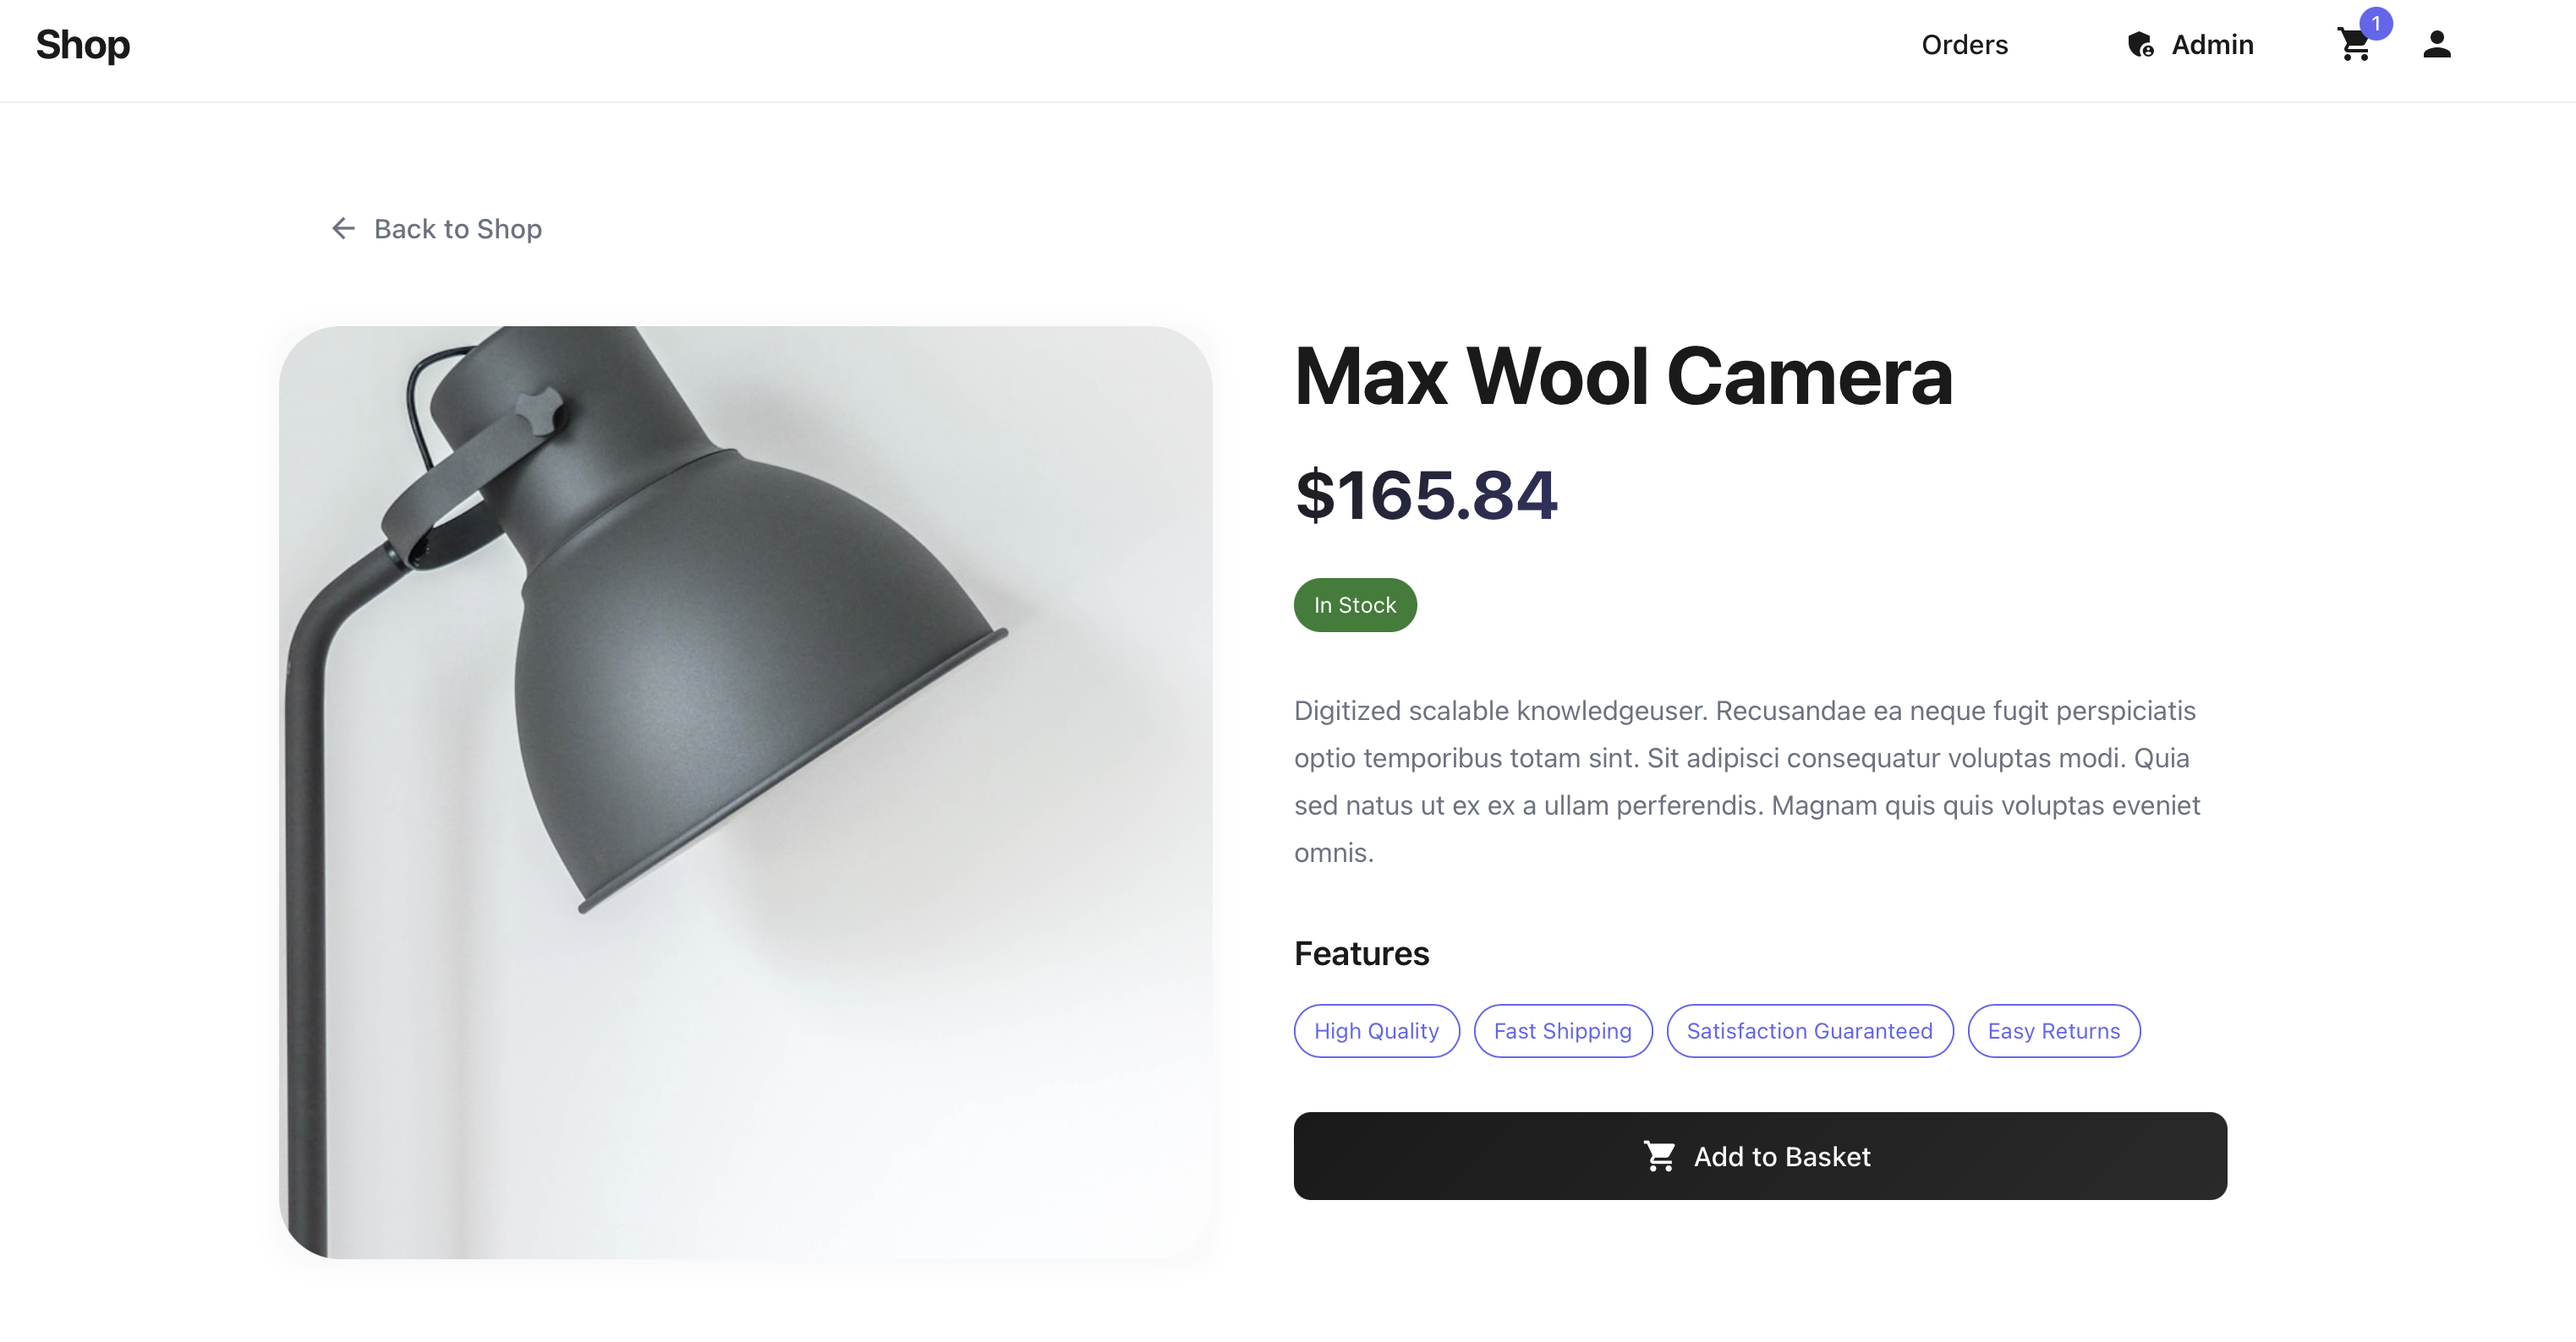
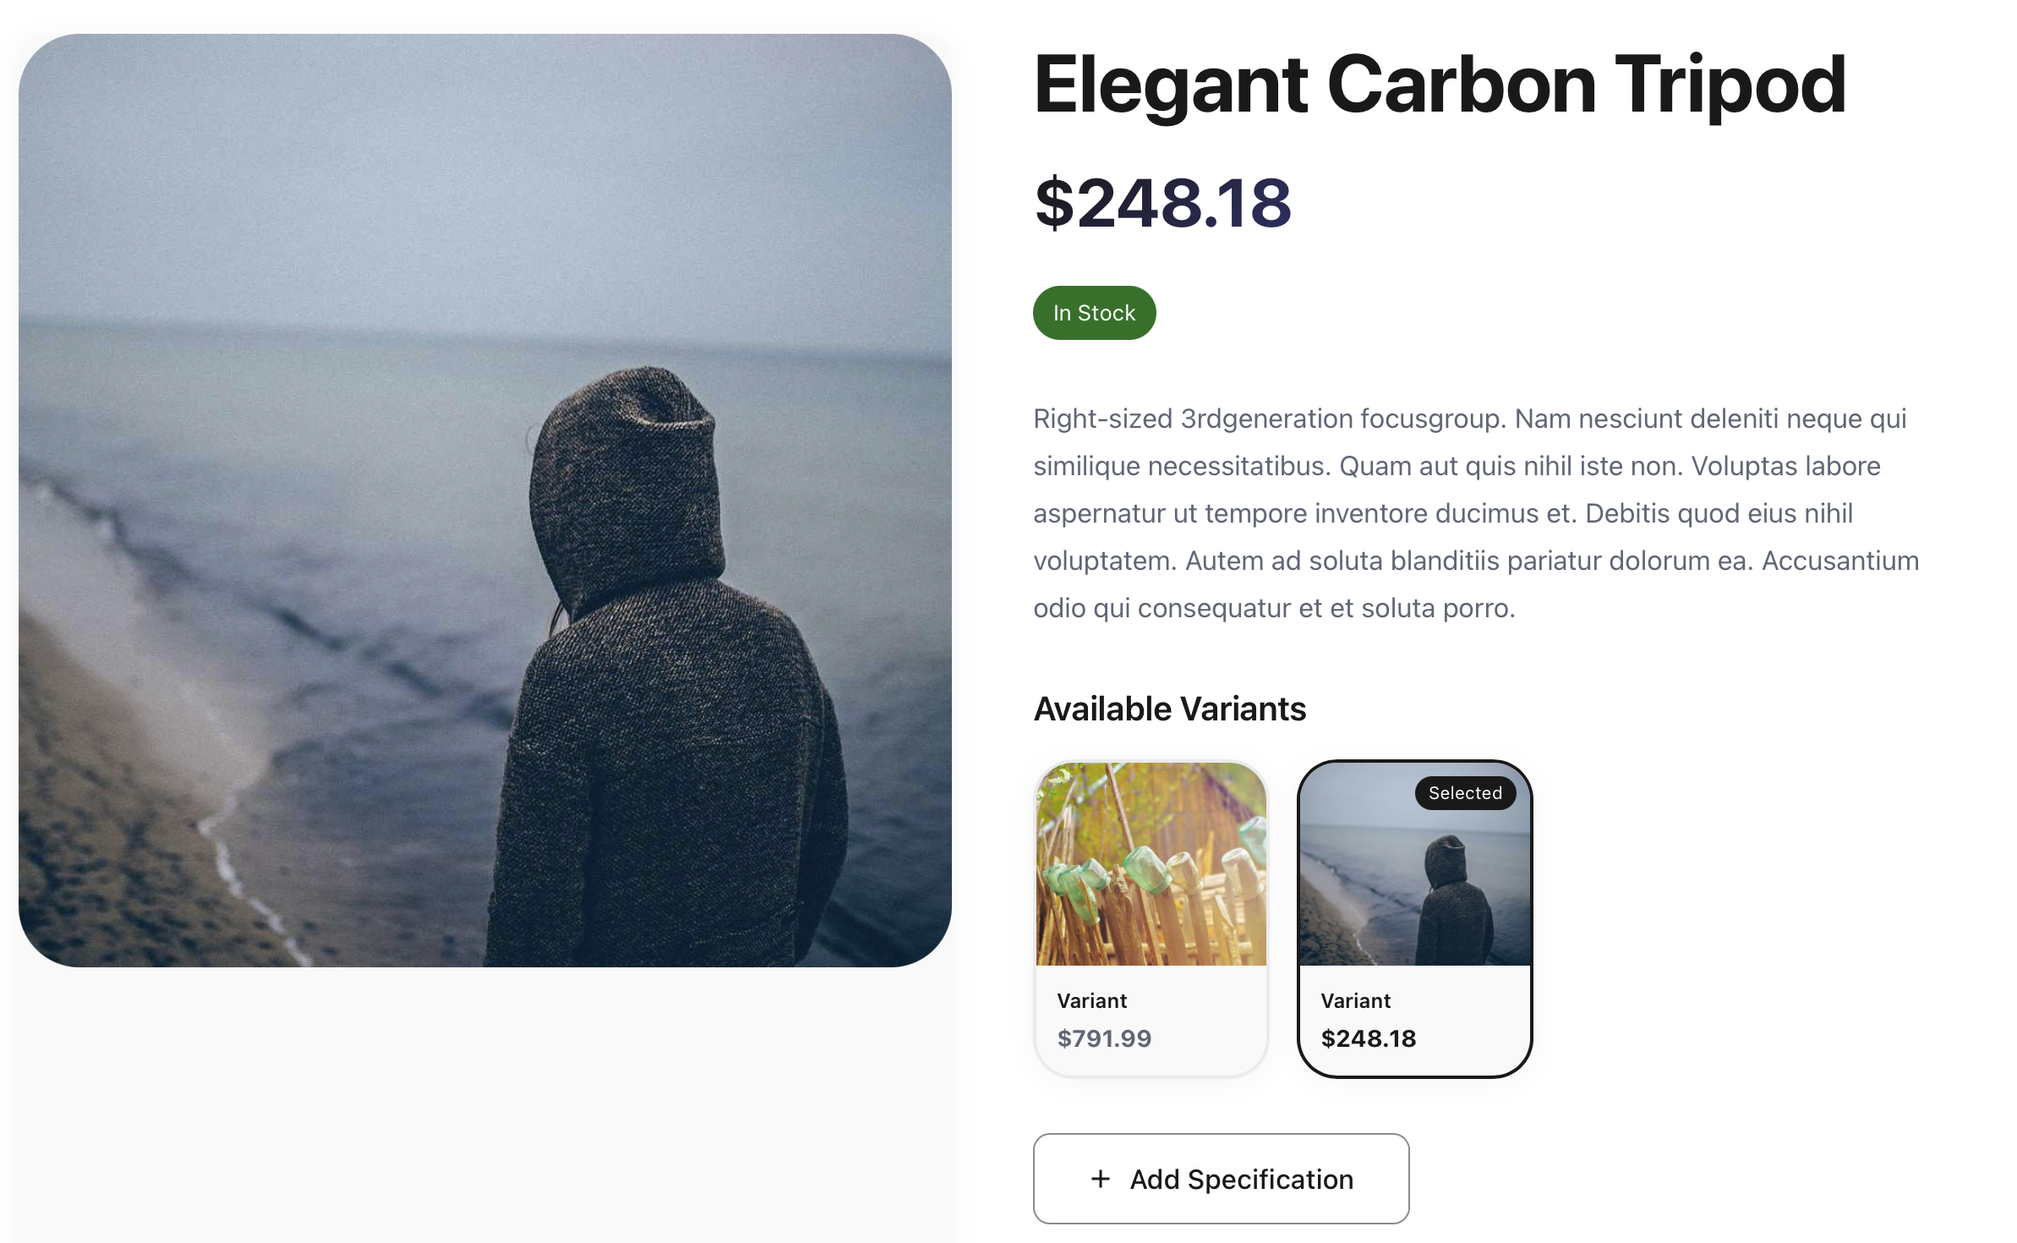
Variants on product page cooler selection

diff --git a/web/src/pages/ProductPage.tsx b/web/src/pages/ProductPage.tsx
@@ -55,7 +55,7 @@ export default function ProductPage() {
     const [variants, setVariants] = useState<ProductVariant[]>([]);
 
     const { data: meRaw } = useGetMe(undefined, { enabled: true });
-    const me = meRaw as ApiResponse<MePayload> | undefined;
+    const me = meRaw as unknown as ApiResponse<MePayload> | undefined;
     const user: User | undefined =
         me?.data && typeof me.data === 'object' && 'user' in me.data
             ? (me.data as { user?: User }).user
@@ -235,7 +235,7 @@ export default function ProductPage() {
                                 {product.description || 'No description available'}
                             </Typography>
 
-                            {variants.length > 0 && (
+                            {variants.length > 1 && (
                                 <Box sx={{ mb: 4 }}>
                                     <Typography variant="h6" sx={{ mb: 2, fontWeight: 600 }}>
                                         Available Variants
@@ -246,50 +246,78 @@ export default function ProductPage() {
                                                 key={variant.id}
                                                 elevation={0}
                                                 sx={{
-                                                    cursor: 'pointer',
+                                                    cursor: variant.is_current ? 'default' : 'pointer',
                                                     border: '2px solid',
-                                                    borderColor: 'grey.200',
+                                                    borderColor: variant.is_current ? 'primary.main' : 'grey.200',
                                                     borderRadius: 2,
                                                     transition: 'all 0.2s ease',
-                                                    '&:hover': { borderColor: 'primary.main', transform: 'translateY(-2px)', boxShadow: 2 },
+                                                    ...(!variant.is_current && {
+                                                        '&:hover': { borderColor: 'primary.main', transform: 'translateY(-2px)', boxShadow: 2 }
+                                                    }),
                                                     width: 140,
+                                                    position: 'relative',
+                                                    bgcolor: variant.is_current ? 'primary.50' : 'background.paper',
                                                 }}
-                                                onClick={() => navigate(`/product/${variant.id}`)}
+                                                onClick={() => !variant.is_current && navigate(`/product/${variant.id}`)}
                                             >
-                                                {variant.image && (
-                                                    <CardMedia
-                                                        component="img"
-                                                        image={getImageUrl(variant.image) || ''}
-                                                        alt={variant.title}
-                                                        sx={{ height: 120, objectFit: 'cover' }}
-                                                    />
+                                            {variant.is_current && (
+                                                <Chip 
+                                                    label="Selected" 
+                                                    size="small" 
+                                                    color="primary"
+                                                    sx={{ 
+                                                        position: 'absolute', 
+                                                        top: 8, 
+                                                        right: 8, 
+                                                        zIndex: 1,
+                                                        height: 20,
+                                                        fontSize: '0.65rem',
+                                                    }} 
+                                                />
+                                            )}
+                                            {variant.image && (
+                                                <CardMedia
+                                                    component="img"
+                                                    image={getImageUrl(variant.image) || ''}
+                                                    alt={variant.title}
+                                                    sx={{ 
+                                                        height: 120, 
+                                                        objectFit: 'cover',
+                                                        opacity: variant.is_current ? 1 : 0.9,
+                                                    }}
+                                                />
+                                            )}
+                                            <Box sx={{ p: 1.5 }}>
+                                                <Typography
+                                                    variant="body2"
+                                                    sx={{
+                                                        fontWeight: 600,
+                                                        fontSize: '0.75rem',
+                                                        mb: 0.5,
+                                                        overflow: 'hidden',
+                                                        textOverflow: 'ellipsis',
+                                                        whiteSpace: 'nowrap',
+                                                        color: variant.is_current ? 'primary.main' : 'text.primary',
+                                                    }}
+                                                >
+                                                    {Object.entries(variant.attributes)
+                                                        .map(([_, value]) => String(value))
+                                                        .join(' • ') || 'Variant'}
+                                                </Typography>
+                                                <Typography 
+                                                    variant="body2" 
+                                                    sx={{ 
+                                                        fontWeight: 700, 
+                                                        color: variant.is_current ? 'primary.main' : 'text.secondary', 
+                                                        fontSize: '0.875rem' 
+                                                    }}
+                                                >
+                                                    ${variant.price.toFixed(2)}
+                                                </Typography>
+                                                {variant.stock === 0 && (
+                                                    <Chip label="Out of Stock" size="small" color="error" sx={{ mt: 0.5, height: 18, fontSize: '0.65rem' }} />
                                                 )}
-                                                <Box sx={{ p: 1.5 }}>
-                                                    <Typography
-                                                        variant="body2"
-                                                        sx={{
-                                                            fontWeight: 600,
-                                                            fontSize: '0.75rem',
-                                                            mb: 0.5,
-                                                            overflow: 'hidden',
-                                                            textOverflow: 'ellipsis',
-                                                            whiteSpace: 'nowrap',
-                                                        }}
-                                                    >
-                                                        {Object.entries(variant.attributes)
-                                                            .map(([_, value]) => String(value))
-                                                            .reduce<JSX.Element | null>(
-                                                                (prev, curr) => (prev ? <>{prev} • {curr}</> : <>{curr}</>),
-                                                                null
-                                                            ) || 'Variant'}
-                                                    </Typography>
-                                                    <Typography variant="body2" sx={{ fontWeight: 700, color: 'primary.main', fontSize: '0.875rem' }}>
-                                                        ${variant.price.toFixed(2)}
-                                                    </Typography>
-                                                    {variant.stock === 0 && (
-                                                        <Chip label="Out of Stock" size="small" color="error" sx={{ mt: 0.5, height: 18, fontSize: '0.65rem' }} />
-                                                    )}
-                                                </Box>
+                                            </Box>
                                             </Card>
                                         ))}
                                     </Box>

diff --git a/web/src/api/variants.ts b/web/src/api/variants.ts
@@ -7,6 +7,7 @@ export interface ProductVariant {
   stock: number;
   image: string | null;
   attributes: Record<string, string>;
+  is_current: boolean;
 }
 
 export interface GetProductVariantsResponse {

diff --git a/app/Controllers/ProductVariantsController.php b/app/Controllers/ProductVariantsController.php
@@ -42,8 +42,7 @@ class ProductVariantsController extends Controller
 
         foreach ($allProducts as $allProduct) {
             if ($allProduct instanceof Product 
-                && $allProduct->variant_group === $product->variant_group
-                && $allProduct->id !== $product->id) {
+                && $allProduct->variant_group === $product->variant_group) {
                 
                 // Get first image
                 $images = $allProduct->images()->get();
@@ -75,9 +74,13 @@ class ProductVariantsController extends Controller
                     'stock' => $allProduct->stock,
                     'image' => $imageUrl,
                     'attributes' => $variantAttributes,
+                    'is_current' => $allProduct->id === $product->id,
                 ];
             }
         }
+
+        // Sort variants by ID for deterministic ordering
+        usort($variants, fn($a, $b): int => strcmp($a['id'], $b['id']));
 
         return JsonResponse::ok([
             'variants' => $variants,
